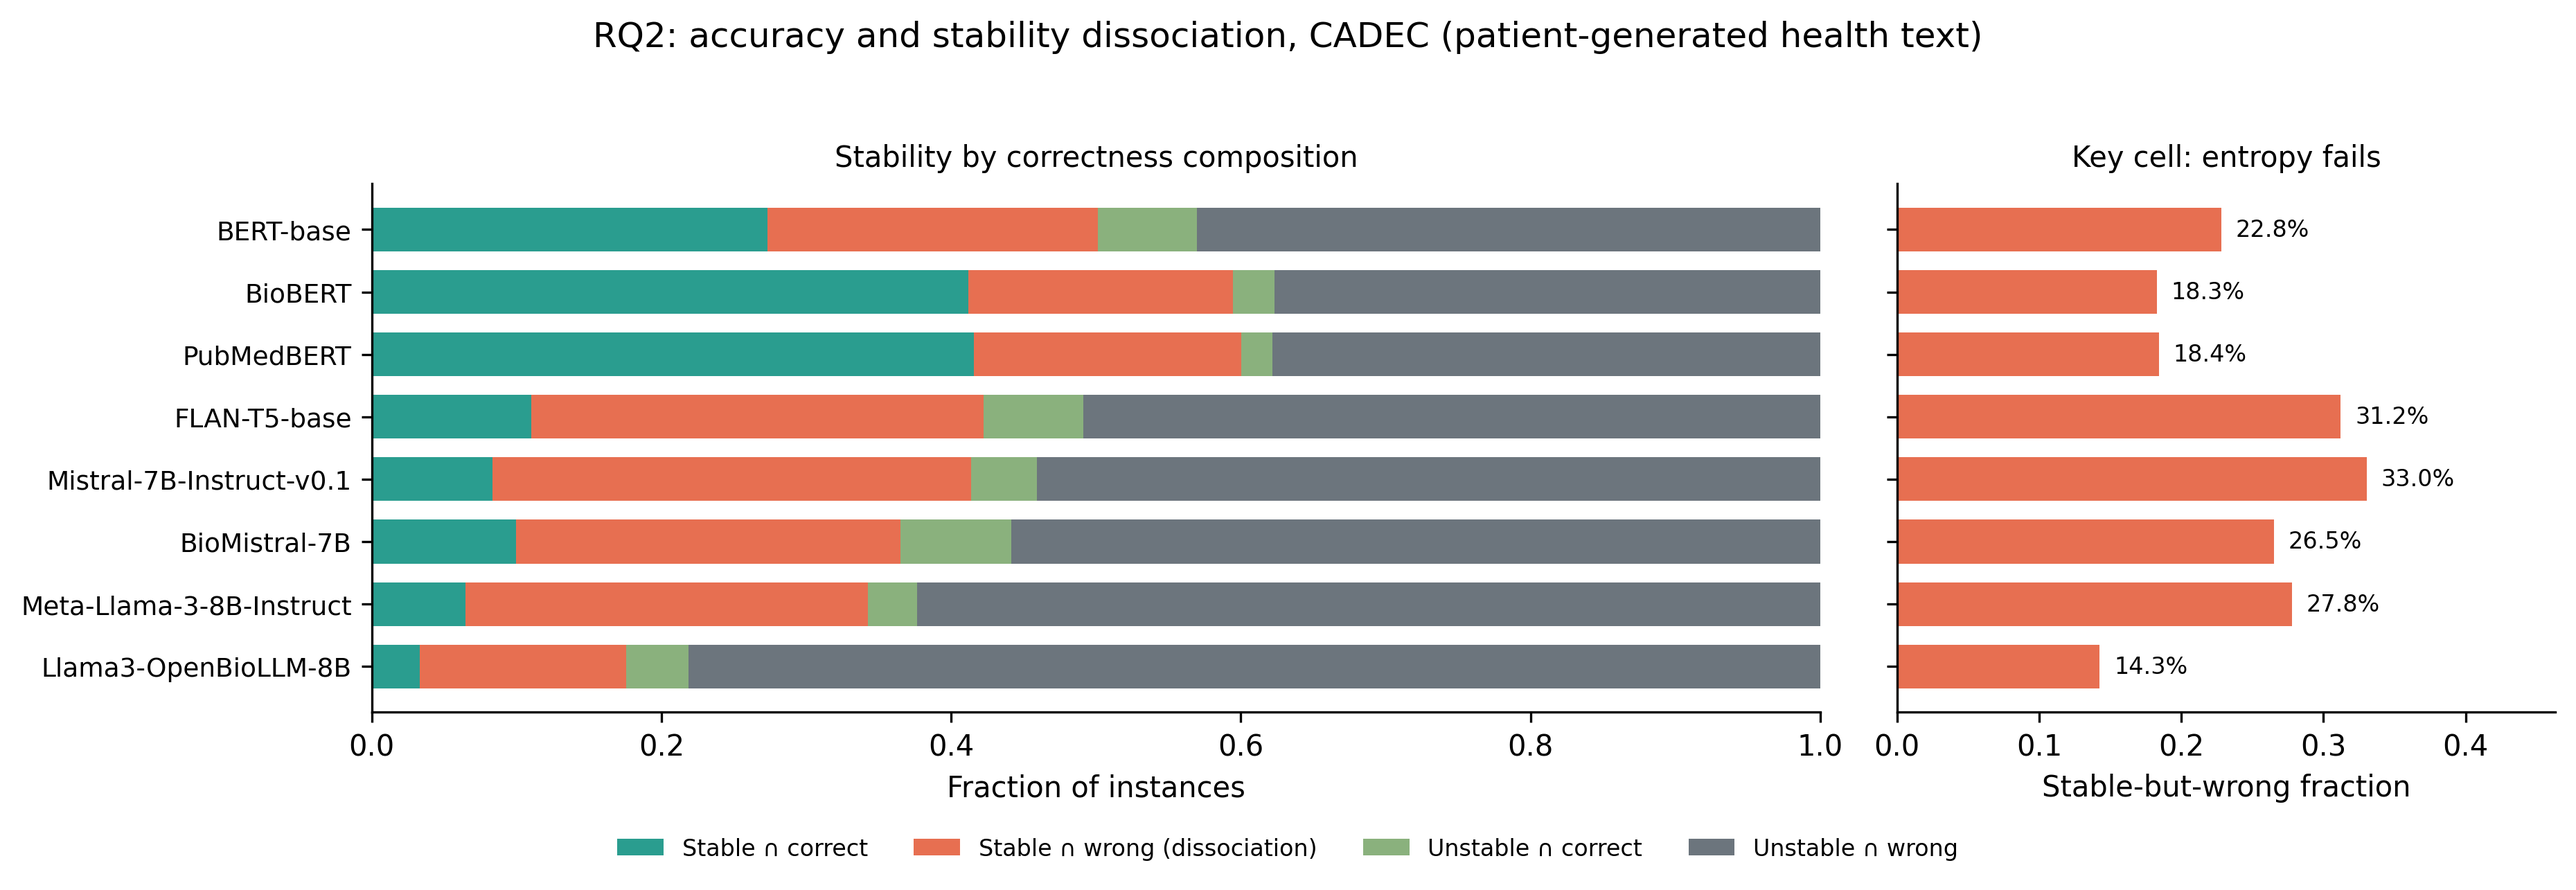
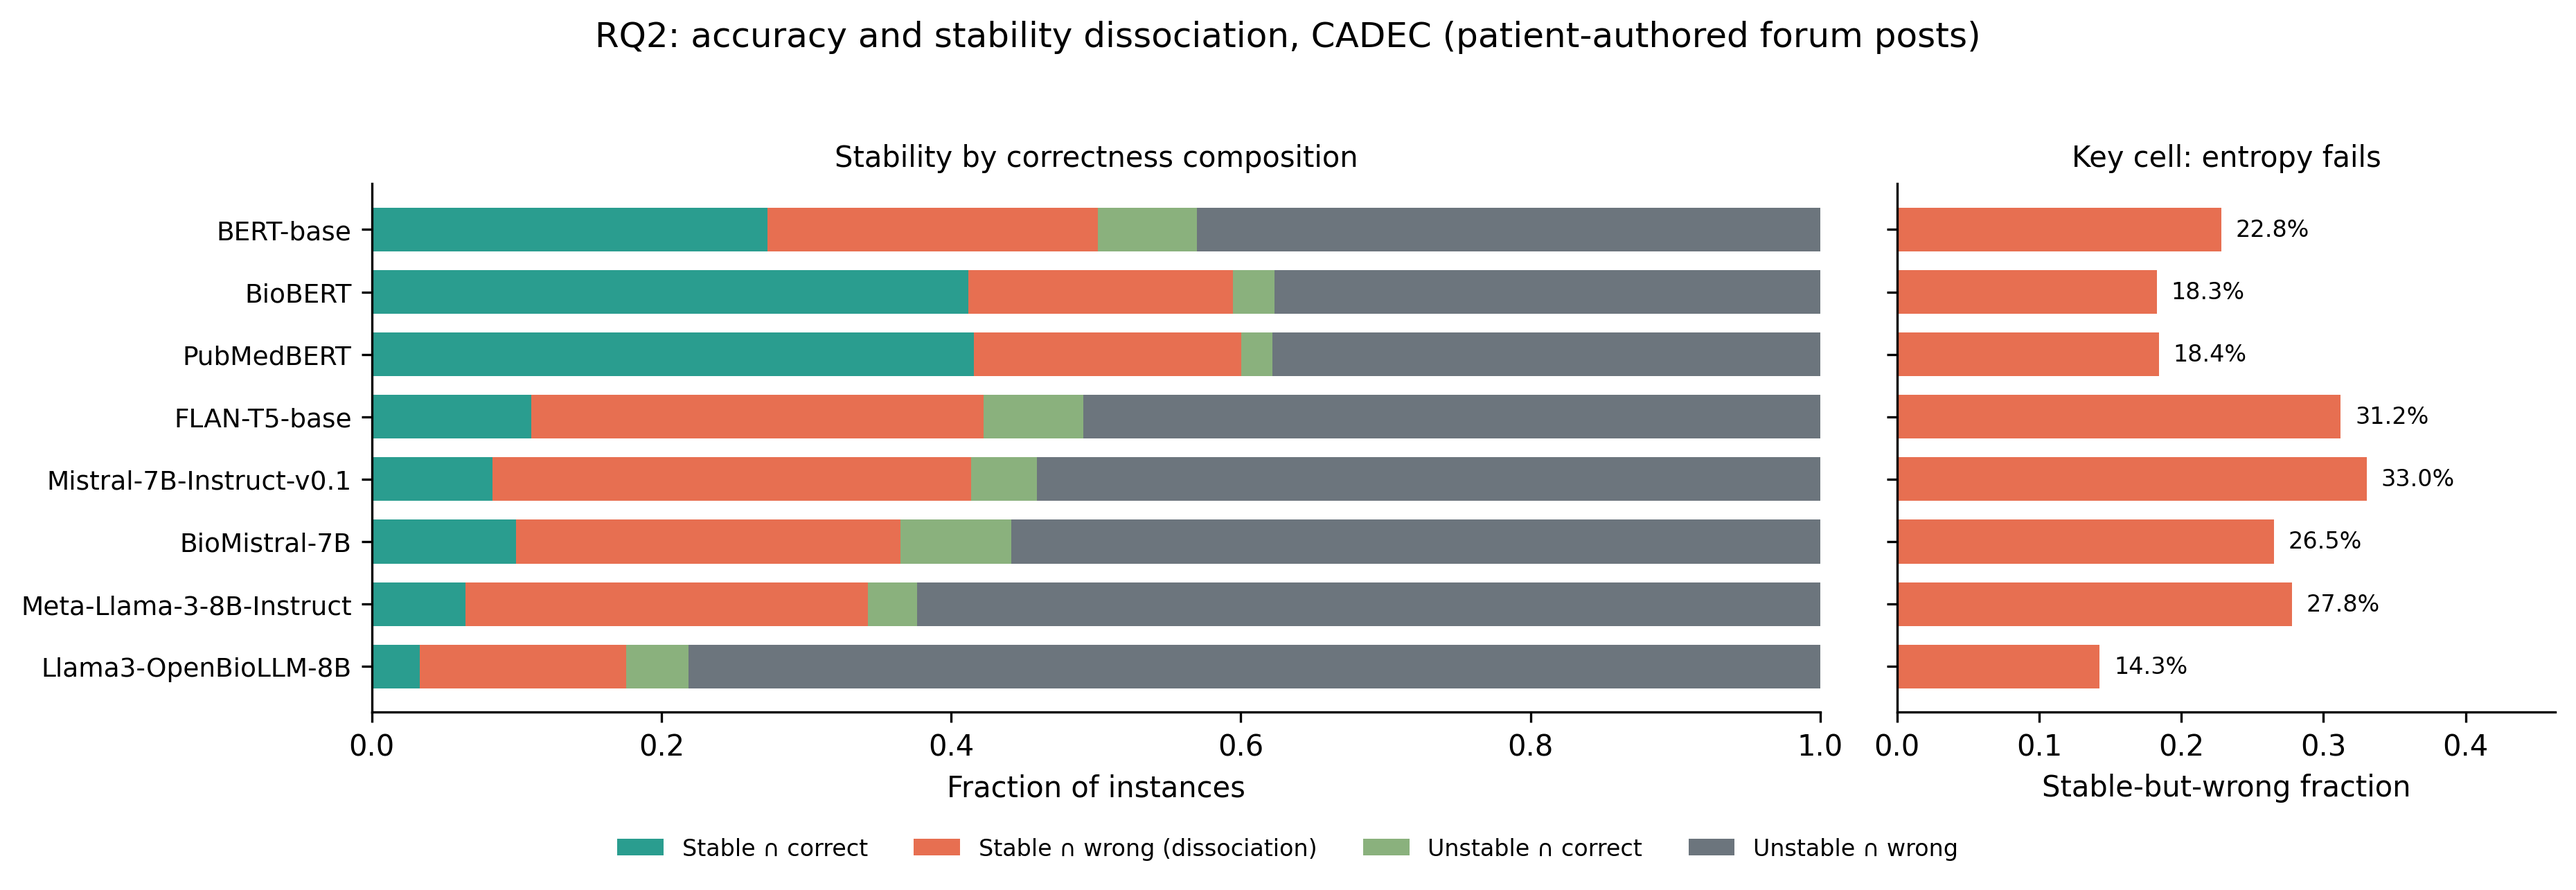
CADEC label: patient-authored forum posts. Fixed at source this time, verified in pixels
WHY THREE PREVIOUS FIXES MISSED IT. The string is not in the title code. It is the DATASETS
label in cell 2:

    "label": "CADEC (patient-generated health text)"

and the figure builds its title from cfg["label"]. Three times I changed how the title is
ASSEMBLED in cell 8, re-ran, saw the log line, and reported it done. The label the title
interpolates was never touched. Reading the script showed the title code I had just edited;
only reading the rendered pixels showed the string that code pulls in. This is BUG_AUDIT 26
again, one level down: the check I ran confirmed the edit I made, not the outcome claimed.

Replaced in all 3 source cells of RQ2_Accuracy_Stability_Dissociation.ipynb, both panels
regenerated, and CONFIRMED BY READING THE PNG: the CADEC title now renders as
"RQ2: accuracy and stability dissociation, CADEC (patient-authored forum posts)".

STILL PRESENT ELSEWHERE, not changed, because these are separate figures and docs and the
instruction was scoped to the RQ2 panels:
  notebooks/05_analysis/RQ1_linguistic_predictors_hurdle.ipynb   3 source cells
  notebooks/05_analysis/RQ4_Clinical_Utility_Abstention.ipynb    4 source cells
  notebooks/05_analysis/RQ4_margin_benchmark.ipynb               1 source cell
  docs/RQ1_CADEC_results.md, docs/RQ1_CADEC_results_rawm.md
No delivered figure in figures_for_report carries the phrase any more.

Changed region(s): [[0.2183, 0.0311, 0.7798, 0.0623]]

diff --git a/figures_for_report/MANIFEST.md b/figures_for_report/MANIFEST.md
@@ -1,6 +1,6 @@
 # figures_for_report
 
-Assembled 2026-09-21 16:06 by `scripts/build_figures_for_report.py`.
+Assembled 2026-09-22 11:37 by `scripts/build_figures_for_report.py`.
 Every digest, row count and timestamp below is computed by that script, not typed.
 
 ## Directory naming
@@ -177,9 +177,9 @@ Question-answering lane alias: `OpenBioLLM-8B` is the same model as `Llama3-Open
 - producer: `notebooks/05_analysis/RQ2_Accuracy_Stability_Dissociation.ipynb (RQ_DATASETS=CADEC)`
 - model set: 8 models
 - corpus: CADEC
-- source artefact: `outputs/rq3/rq2_dissociation_summary.csv`  sha256 `c05566c2715f1b20`  rows 8  mtime 2026-09-21 15:26
[1 lines of base64/hex data omitted]
-- output mtime: 2026-09-21 15:26
+- source artefact: `outputs/rq3/rq2_dissociation_summary.csv`  sha256 `b0d91504ed483f1c`  rows 8  mtime 2026-09-22 11:37
[1 lines of base64/hex data omitted]
+- output mtime: 2026-09-22 11:37
 
 ### RQ2 dissociation, MedMentions
 
@@ -187,9 +187,9 @@ Question-answering lane alias: `OpenBioLLM-8B` is the same model as `Llama3-Open
 - producer: `notebooks/05_analysis/RQ2_Accuracy_Stability_Dissociation.ipynb (RQ_DATASETS=MedMentions)`
 - model set: 8 models
 - corpus: MedMentions
-- source artefact: `outputs/rq1/rq2_dissociation_summary.csv`  sha256 `d11830936b4d9dd3`  rows 8  mtime 2026-09-21 15:26
+- source artefact: `outputs/rq1/rq2_dissociation_summary.csv`  sha256 `d11830936b4d9dd3`  rows 8  mtime 2026-09-22 11:37
[1 lines of base64/hex data omitted]
-- output mtime: 2026-09-21 15:26
+- output mtime: 2026-09-22 11:37
 
 ### Signal independence, CADEC
 

diff --git a/figures_for_report/captions.md b/figures_for_report/captions.md
@@ -1,6 +1,6 @@
 # Figure captions
 
-Generated 2026-09-21 16:07 by `scripts/build_captions.py` from the caption registry each producer writes.
+Generated 2026-09-22 11:39 by `scripts/build_captions.py` from the caption registry each producer writes.
 
 Figure titles are one line naming the measure and the corpus. Everything else a reader needs is here, ready to paste into a LaTeX caption. Nothing that used to sit on an image was dropped: it was moved.
 
@@ -229,7 +229,7 @@ Figure titles are one line naming the measure and the corpus. Everything else a 
 
 ## `rq2_dissociation_stable_but_wrong_cadec.png`
 
-**Title as drawn:** RQ2: accuracy and stability dissociation, CADEC (patient-generated health text)
+**Title as drawn:** RQ2: accuracy and stability dissociation, CADEC (patient-authored forum posts)
 
 **n:** n = 37,695 analysed rows
 
